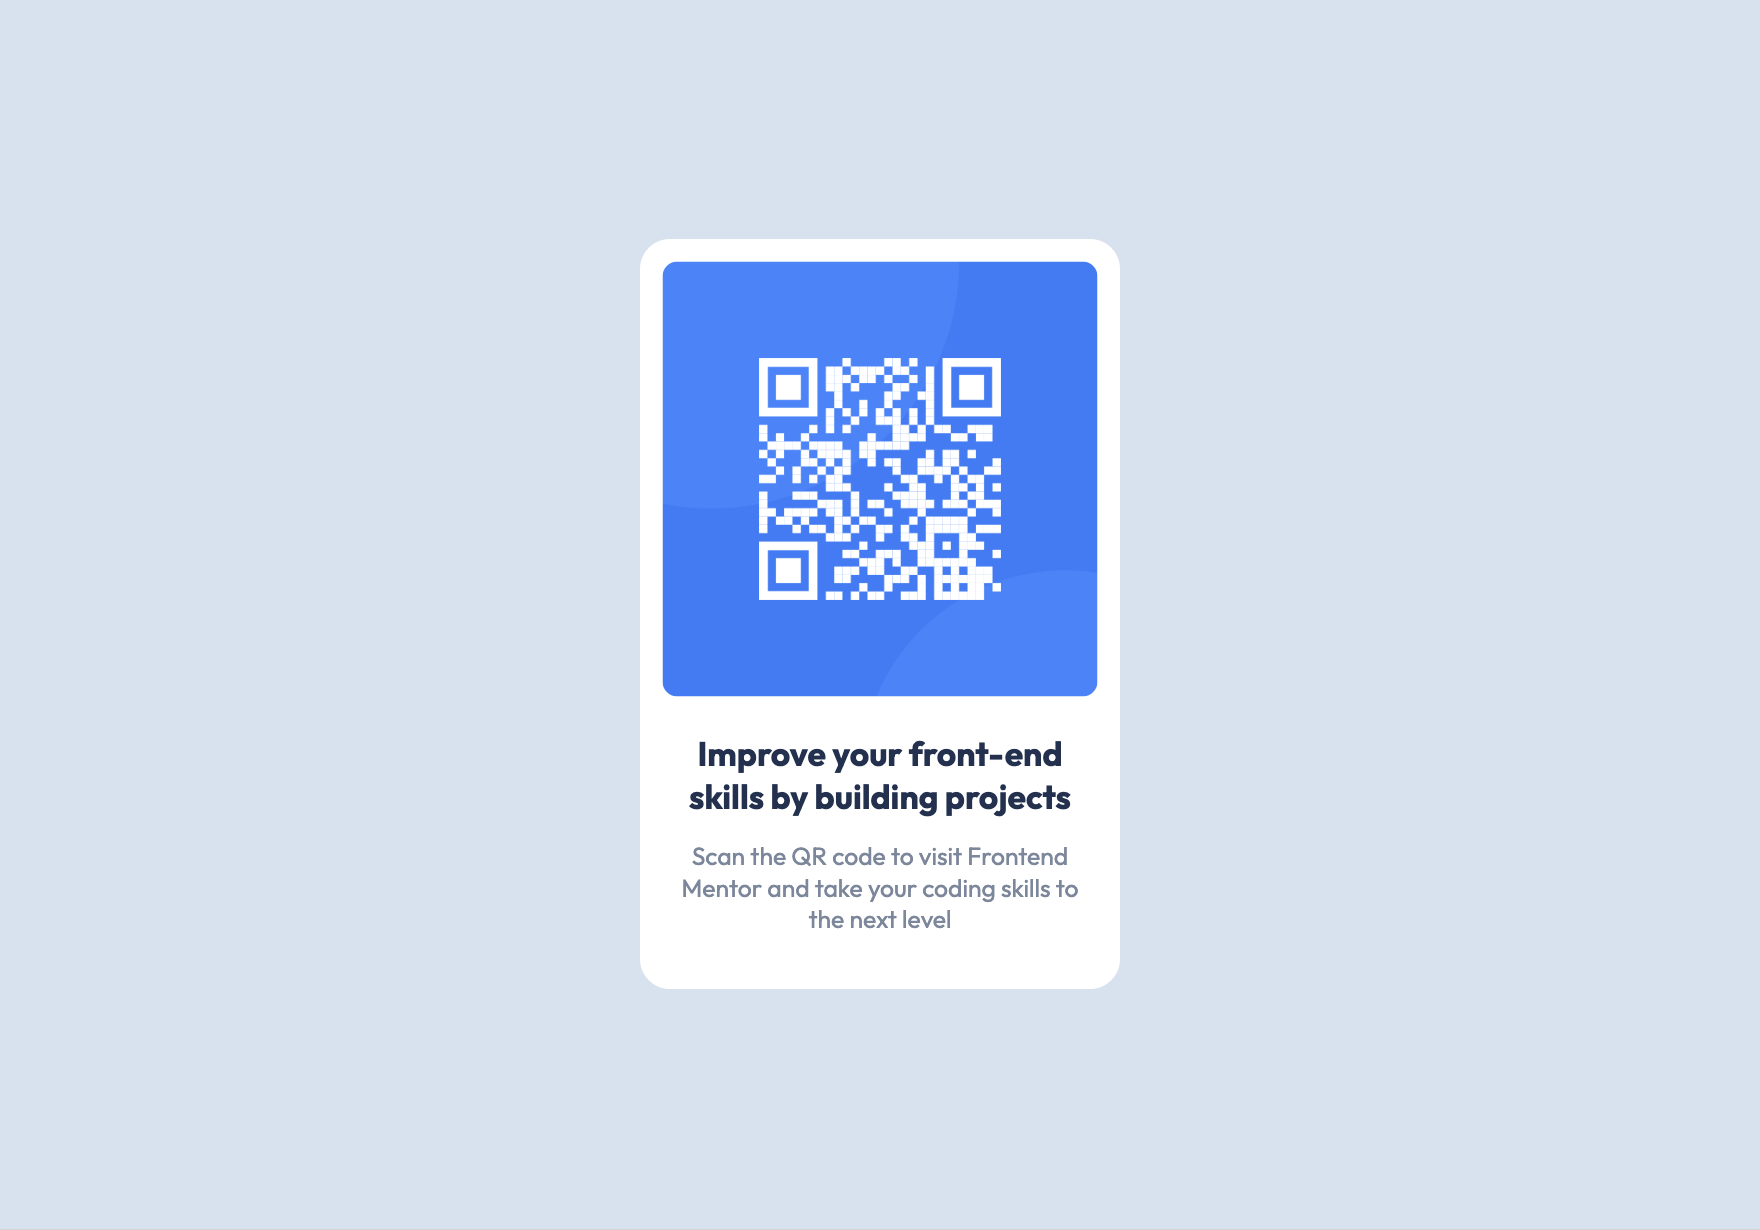
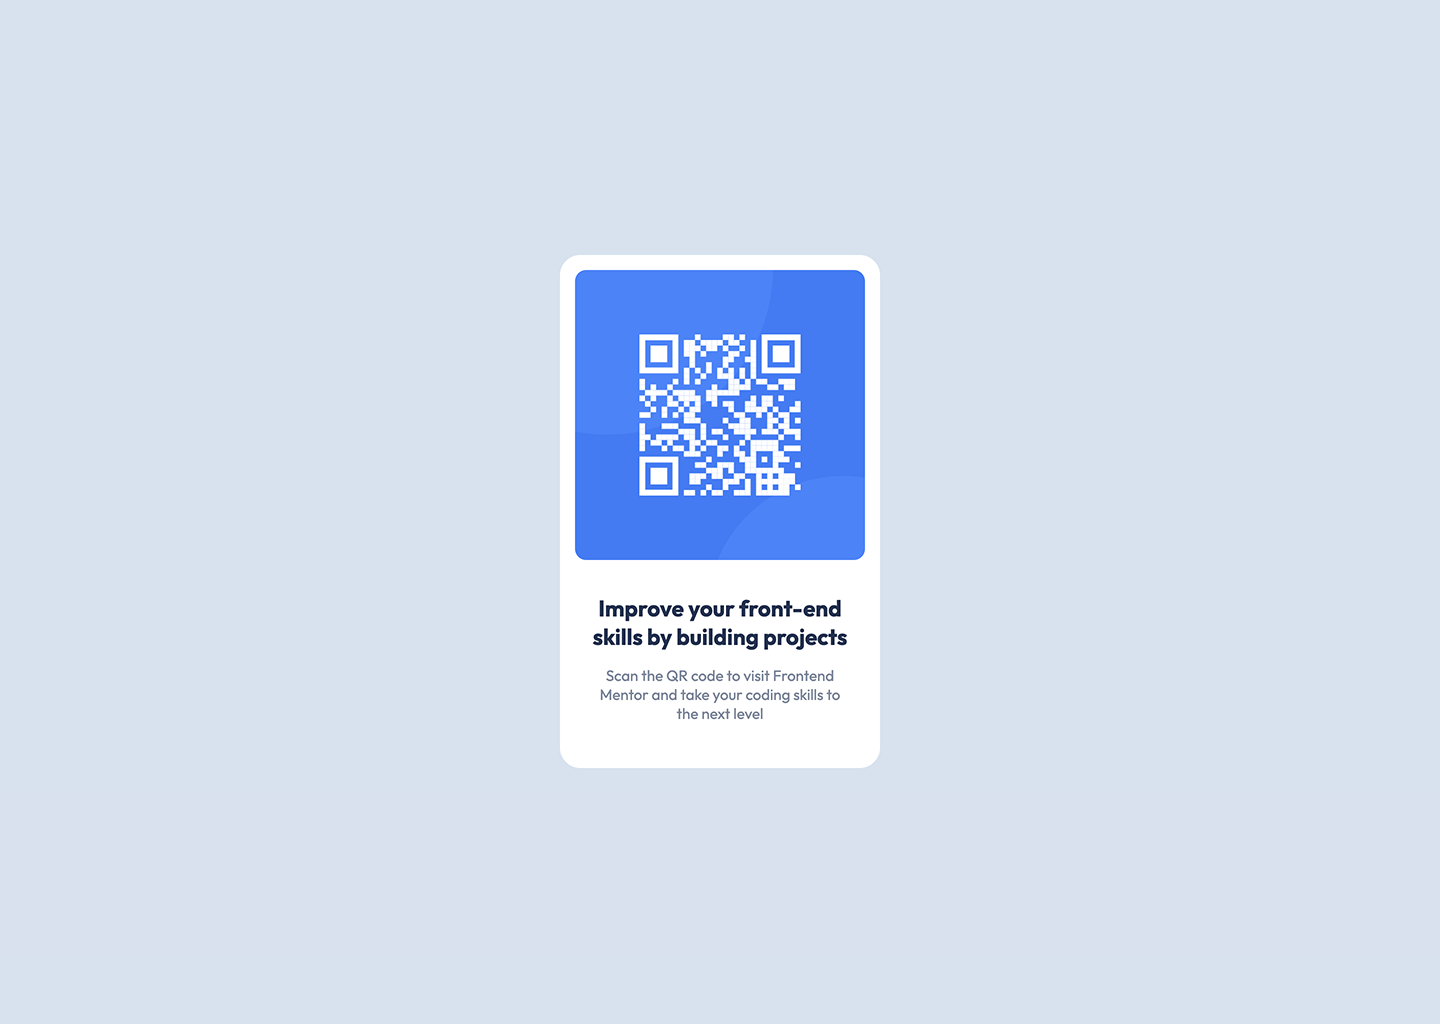
modify project: qr-code-component version: 1.1

Changed region(s): [[0.3438, 0.1875, 0.6562, 0.8125]]

diff --git a/qr-code-component/css/style.css b/qr-code-component/css/style.css
@@ -9,45 +9,45 @@
 
 * {
   margin: 0;
+  padding: 0;
+  box-sizing: border-box;
 }
 
 html,
 body {
   font-family: 'Outfit', sans-serif;
   font-size: 15px;
-  background: var(--bg-color);
 }
 
 body {
-  height: 100vh;
+  background: var(--bg-color);
+  min-height: 100vh;
   display: flex;
-  flex-direction: column;
   justify-content: center;
   align-items: center;
 }
 
 .card {
   background: var(--card-bg-color);
-  width: 320px;
-  height: 500px;
+  max-width: 320px;
+  border-radius: 1.35rem;
   text-align: center;
-  border-radius: 20px;
+  padding: 1rem;
 }
 
 .card img {
-  width: 290px;
-  border-radius: 10px;
-  margin: 15px auto 5px;
+  max-width: 100%;
+  height: auto;
+  border-radius: 0.75rem;
 }
 
-.card h2 {
+.card h1 {
   color: var(--primary-color);
-  margin: 15px 20px;
-  font-weight: 700;
+  font-size: 1.5rem;
+  margin: 2rem 1rem 0.5rem;
 }
 
 .card p {
   color: var(--secondary-color);
-  font-size: 1.1rem;
-  margin: 0 20px;
+  margin: 1rem 1rem 2rem;
 }

diff --git a/qr-code-component/index.html b/qr-code-component/index.html
@@ -10,7 +10,7 @@
   <body>
     <main class="card">
       <img src="images/image-qr-code.png" alt="QR Code" />
-      <h2>Improve your front-end skills by building projects</h2>
+      <h1>Improve your front-end skills by building projects</h1>
       <p>Scan the QR code to visit Frontend Mentor and take your coding skills to the next level</p>
     </main>
   </body>
